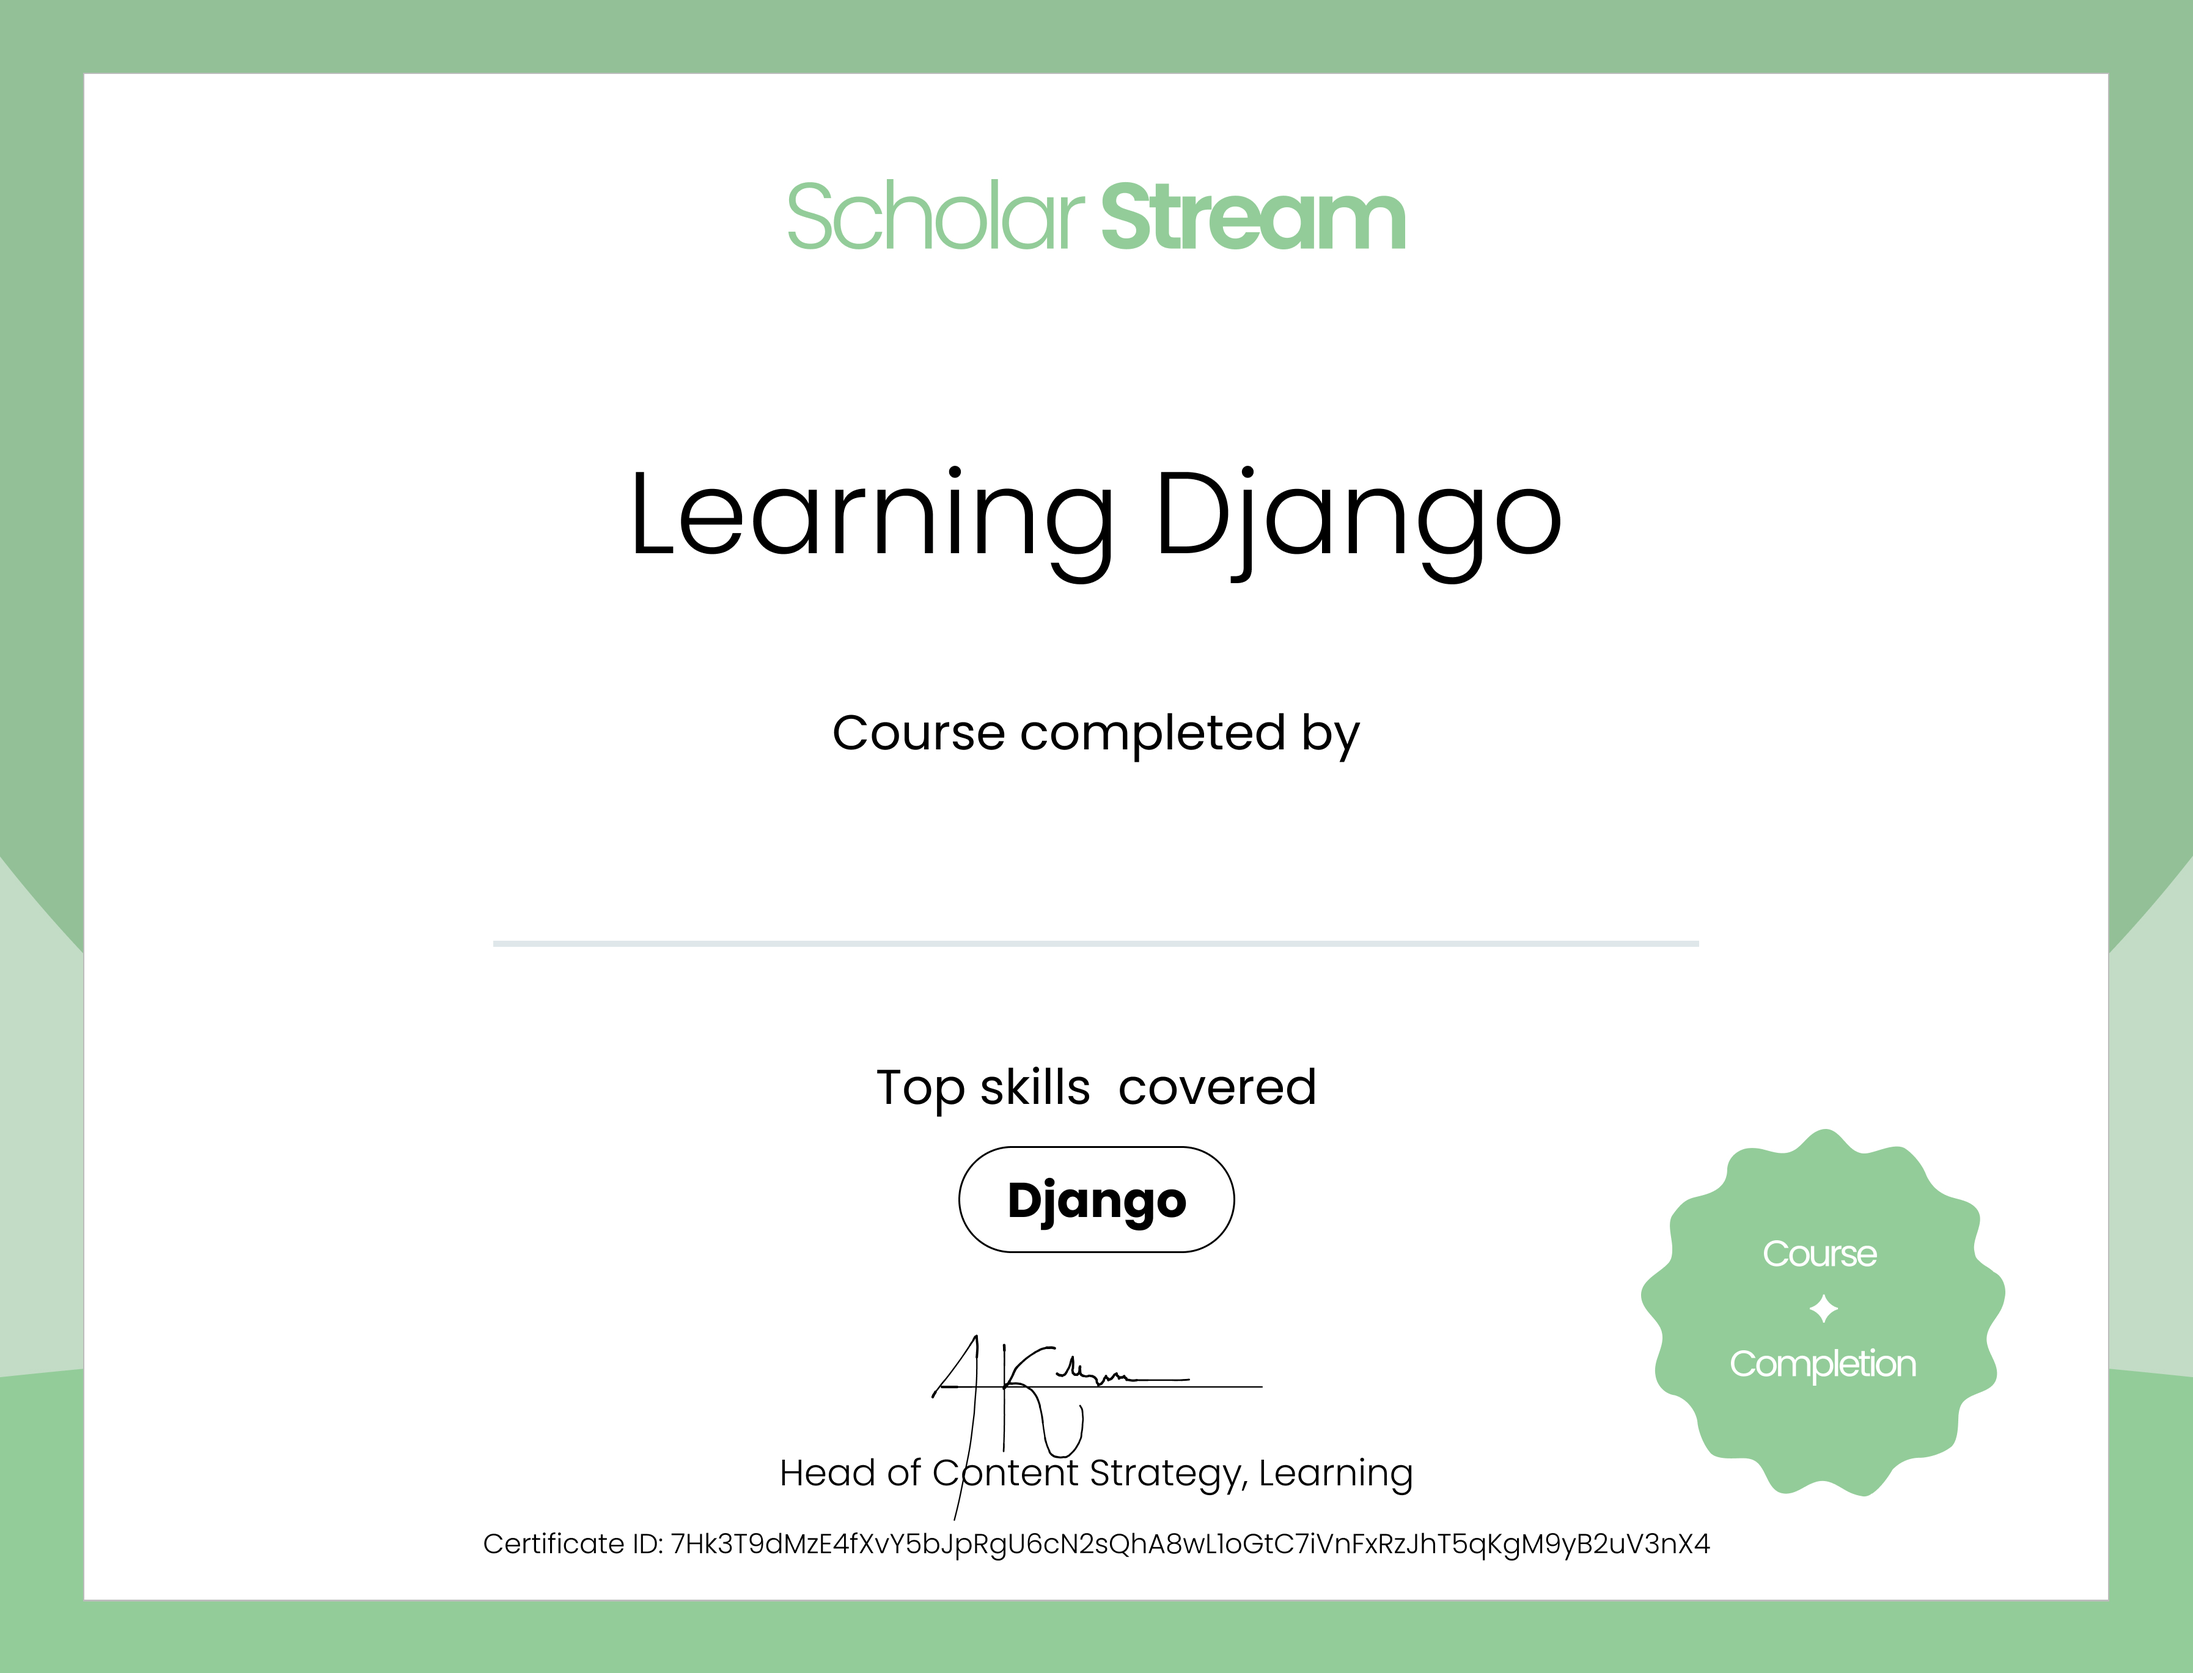
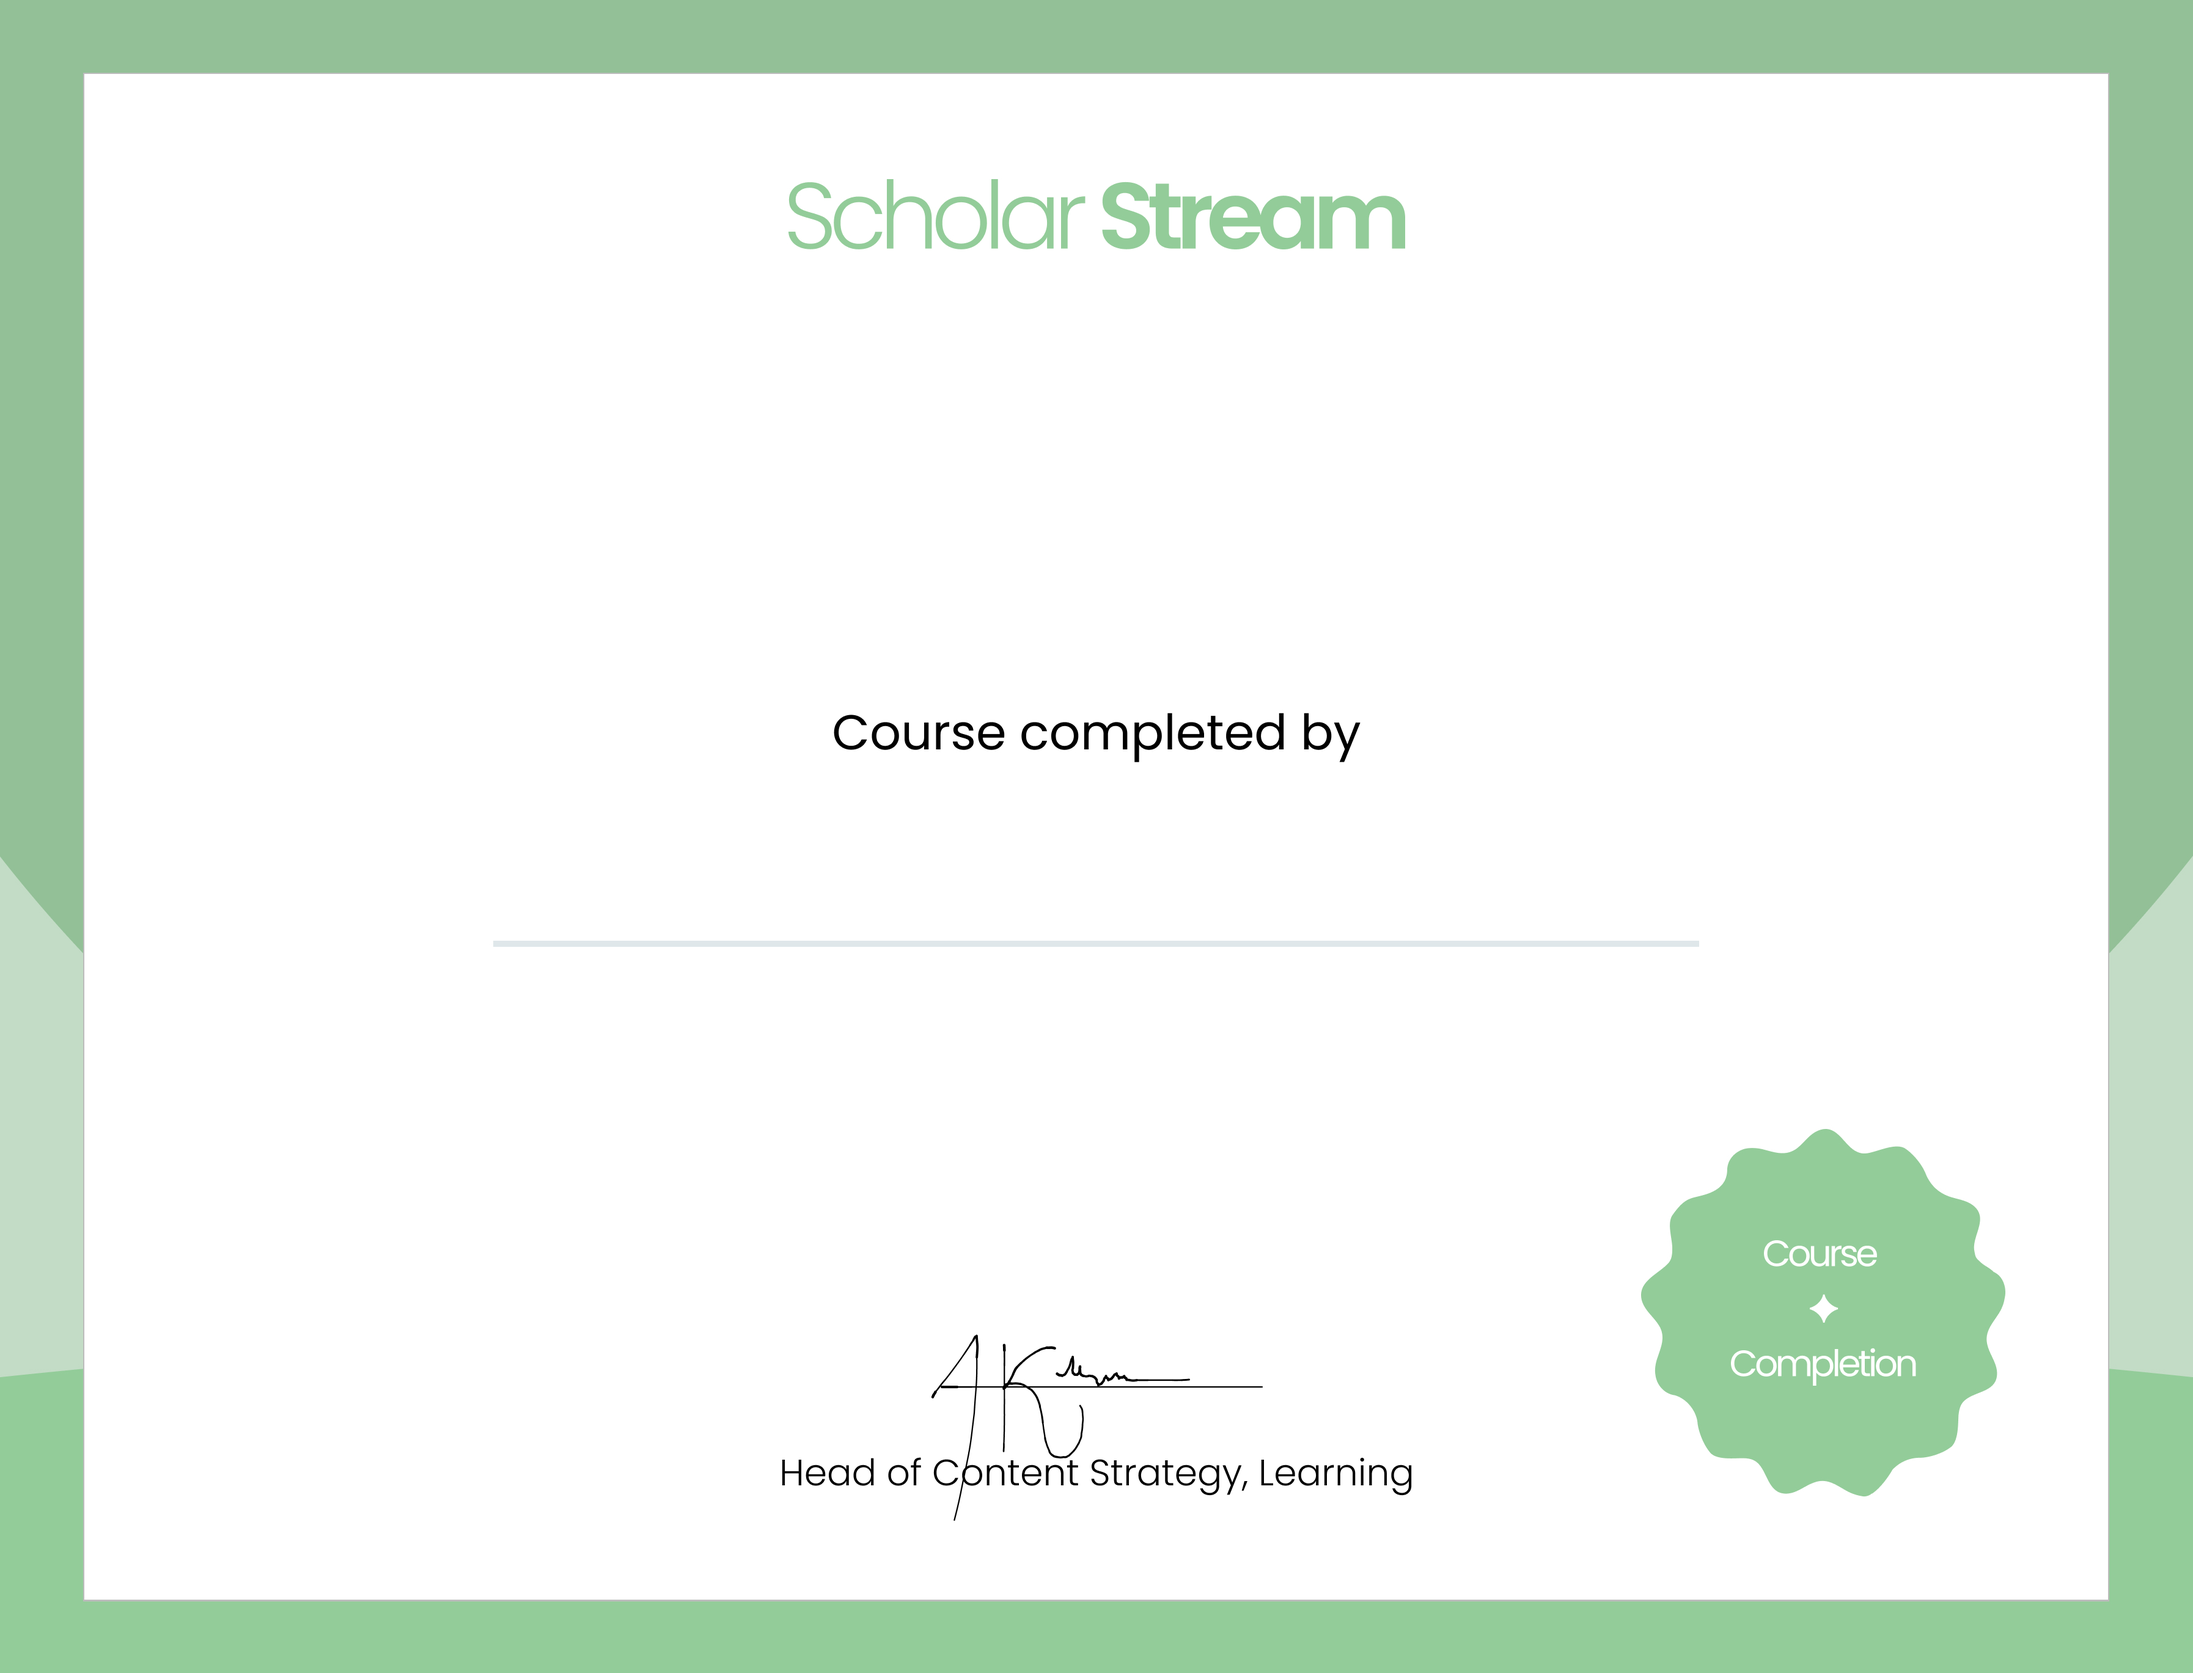
Updated Font, font colour, font size, and master template image

diff --git a/course/utils.py b/course/utils.py
@@ -2,6 +2,7 @@ import os
 import cv2
 from PIL import Image, ImageDraw, ImageFont
 
+# ... other imports ...
 
 def generate_certificate_image(user, course, certificate_id, date):
     template_path = "certificate-template.jpg"
@@ -11,10 +12,10 @@ def generate_certificate_image(user, course, certificate_id, date):
     certificate_image = Image.open(template_path)
     draw = ImageDraw.Draw(certificate_image)
 
-    font_path = "path_to_your_font_file.ttf"  # Replace with the path to the font file you want to use
-    font_size_name = 50
-    font_size_course = 40
-    font_size_id_date = 12
+    font_path = "Poppins-Light.ttf"
+    font_size_name = 80
+    font_size_course = 100
+    font_size_id_date = 20
 
     font_name = ImageFont.truetype(font_path, font_size_name)
     font_course = ImageFont.truetype(font_path, font_size_course)
@@ -27,7 +28,7 @@ def generate_certificate_image(user, course, certificate_id, date):
     position_x_id_date = int(img_width / 2)
     position_y_name = 700
     position_y_course = 800
-    position_y_id_date = img_height - 50
+    position_y_id_date = 2491
 
     draw.text((position_x_name, position_y_name), user.full_name, fill=(128, 0, 0), font=font_name, anchor="mm")
 
